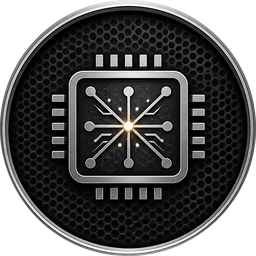
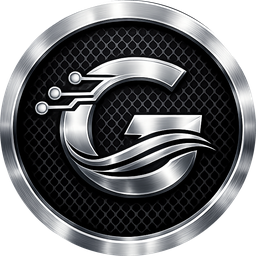
Photos becomes Media (videos flow through) + the G-monogram Gibbs badge
The Photos section is now Media everywhere it's named (nav tab, More
row, "+" tile, target sheet) and actually takes video: the picker
accepts image + video files, and the upload endpoint whitelists
video/mp4, quicktime, webm, m4v (plus iPhone HEIC/HEIF stills) with a
100MB video cap alongside the 25MB cap for everything else. Playback
already worked — CompanyCam video references and uploads share the
same tile + fullscreen player.

Gibbs wears the new G-monogram badge (circuit nodes + airflow swoosh)
in every launcher spot via the overwritten badge asset.

diff --git a/client/src/pages/mobile/mobile-shell.tsx b/client/src/pages/mobile/mobile-shell.tsx
@@ -39,7 +39,7 @@ interface MobileShellProps {
 const navTabs = [
   { path: "/mobile", label: "Agenda", icon: ClipboardList },
   { path: "/mobile/job", label: "Job", icon: Wrench },
-  { path: "/mobile/photos", label: "Photos", icon: Camera },
+  { path: "/mobile/photos", label: "Media", icon: Camera },
   { path: "/mobile/time", label: "Time", icon: Clock },
 ];
 
@@ -290,7 +290,7 @@ export default function MobileShell({ children, customNav }: MobileShellProps) {
           <p className="mb-2 text-xs font-semibold uppercase tracking-wide text-slate-400">Create</p>
           <div className="grid grid-cols-4 gap-3">
             <SheetTile icon={CheckSquare} img={createTask} label="New Task" onClick={() => go("/mobile/tasks/new")} testid="create-new-task" />
-            <SheetTile icon={Camera} img={createPhoto} label="Add Photo" onClick={() => { setCreateOpen(false); setPhotoTargetOpen(true); }} testid="create-add-photo" />
+            <SheetTile icon={Camera} img={createPhoto} label="Add Media" onClick={() => { setCreateOpen(false); setPhotoTargetOpen(true); }} testid="create-add-photo" />
             {isSupervisor && (
               <>
                 <SheetTile icon={UserRoundPlus} img={createCustomer} label="New Customer" onClick={() => go("/mobile/customers/new")} testid="create-new-customer" />
@@ -309,8 +309,8 @@ export default function MobileShell({ children, customNav }: MobileShellProps) {
 
       {/* Add Photo — pick the target first: a job today (role-aware) or a
           customer. Techs must be ON SITE at their job to add photos. */}
-      <DraggableSheet open={photoTargetOpen} onOpenChange={setPhotoTargetOpen} title="Add photo to…" testid="sheet-photo-target">
-        <p className="mb-2 text-xs font-semibold uppercase tracking-wide text-slate-400">Add photo to…</p>
+      <DraggableSheet open={photoTargetOpen} onOpenChange={setPhotoTargetOpen} title="Add media to…" testid="sheet-photo-target">
+        <p className="mb-2 text-xs font-semibold uppercase tracking-wide text-slate-400">Add media to…</p>
         {photoTargetsLoading || !photoTargets ? (
           <div className="flex items-center justify-center py-8 text-slate-400">
             <Loader2 className="h-5 w-5 animate-spin" />
@@ -346,7 +346,7 @@ export default function MobileShell({ children, customNav }: MobileShellProps) {
               <div className="rounded-[4px] border border-amber-300 bg-amber-50 px-4 py-4 text-center" data-testid="photo-target-blocked">
                 <p className="text-sm font-semibold text-amber-900">You're not on site at a job</p>
                 <p className="mt-1 text-xs text-amber-800">
-                  Photos attach to the job you're working. Open your job and tap On Site first — then come back here.
+                  Photos and videos attach to the job you're working. Open your job and tap On Site first — then come back here.
                 </p>
               </div>
             ) : (

diff --git a/server/replit_integrations/object_storage/routes.ts b/server/replit_integrations/object_storage/routes.ts
@@ -2,9 +2,12 @@ import express, { type Express, type Request, type Response, type NextFunction }
 import { ObjectStorageService, ObjectNotFoundError } from "./objectStorage";
 import { requireCrmAuth } from "../../crm-auth";
 
-const MAX_FILE_SIZE = 25 * 1024 * 1024; // 25MB max
+const MAX_FILE_SIZE = 25 * 1024 * 1024; // 25MB max (non-video)
+const MAX_VIDEO_SIZE = 100 * 1024 * 1024; // phone clips run bigger
 const ALLOWED_MIME_TYPES = [
   'image/jpeg', 'image/png', 'image/gif', 'image/webp',
+  'image/heic', 'image/heif',
+  'video/mp4', 'video/quicktime', 'video/webm', 'video/x-m4v',
   'application/pdf',
   'application/msword', 'application/vnd.openxmlformats-officedocument.wordprocessingml.document',
   'application/vnd.openxmlformats-officedocument.spreadsheetml.sheet'
@@ -52,10 +55,11 @@ export function registerObjectStorageRoutes(app: Express): void {
         });
       }
 
-      // Validate file size
-      if (size && size > MAX_FILE_SIZE) {
+      // Validate file size — videos get more headroom than documents/photos
+      const sizeCap = String(contentType || "").startsWith("video/") ? MAX_VIDEO_SIZE : MAX_FILE_SIZE;
+      if (size && size > sizeCap) {
         return res.status(400).json({
-          error: `File size exceeds maximum allowed (${MAX_FILE_SIZE / 1024 / 1024}MB)`,
+          error: `File size exceeds maximum allowed (${sizeCap / 1024 / 1024}MB)`,
         });
       }
 
@@ -91,7 +95,7 @@ export function registerObjectStorageRoutes(app: Express): void {
    */
   app.put(
     "/api/uploads/local/:id",
-    express.raw({ type: () => true, limit: MAX_FILE_SIZE }),
+    express.raw({ type: () => true, limit: MAX_VIDEO_SIZE }),
     async (req: Request, res: Response) => {
       try {
         if (!objectStorageService.isLocal()) {

diff --git a/client/src/pages/mobile/mobile-photos.tsx b/client/src/pages/mobile/mobile-photos.tsx
@@ -439,7 +439,7 @@ export default function MobilePhotos() {
         });
       }
       queryClient.invalidateQueries({ queryKey: ["/api/crm/customers", customerId, "files"] });
-      toast({ title: `${list.length} photo${list.length > 1 ? "s" : ""} uploaded` });
+      toast({ title: `${list.length} file${list.length > 1 ? "s" : ""} uploaded` });
     } catch (e) {
       console.error("Photo upload error:", e);
       toast({ title: "Upload failed", variant: "destructive" });
@@ -580,7 +580,7 @@ export default function MobilePhotos() {
             <input
               ref={fileInputRef}
               type="file"
-              accept="image/*"
+              accept="image/*,video/*"
               multiple
               className="hidden"
               onChange={(e) => handleUpload(e.target.files)}
@@ -689,7 +689,7 @@ export default function MobilePhotos() {
           ) : photos.length === 0 ? (
             <div className="flex flex-col items-center gap-2 py-10 text-slate-300">
               <ImageIcon className="h-10 w-10" />
-              <p className="text-sm text-slate-400">No photos yet for {activeCustomer?.name || "this customer"}.</p>
+              <p className="text-sm text-slate-400">No photos or videos yet for {activeCustomer?.name || "this customer"}.</p>
             </div>
           ) : (
             <div className="photo-grid-noselect grid grid-cols-3 gap-2" data-testid="photo-grid">

diff --git a/client/src/pages/mobile/mobile-more.tsx b/client/src/pages/mobile/mobile-more.tsx
@@ -58,7 +58,7 @@ export default function MobileMore() {
       title: "Work",
       items: [
         { label: "My Jobs", sub: "Today, upcoming, and history", onTap: (n) => n("/mobile/job"), testid: "more-jobs", badge: todayJobs > 0 ? `${todayJobs} today` : null },
-        { label: "Photos", sub: "Job-site shots and required photos", onTap: (n) => n("/mobile/photos"), testid: "more-photos", badge: needPhotos > 0 ? `${needPhotos} need photos` : null },
+        { label: "Media", sub: "Job-site photos and videos", onTap: (n) => n("/mobile/photos"), testid: "more-photos", badge: needPhotos > 0 ? `${needPhotos} need photos` : null },
         { label: "My Tasks", sub: "Your personal to-do list from the CRM", onTap: (n) => n("/mobile/tasks"), testid: "more-tasks" },
         { label: "Time & Timesheet", sub: "Clock in and review your hours", onTap: (n) => n("/mobile/time"), testid: "more-time" },
         { label: "Agenda", sub: "Your day at a glance", onTap: (n) => n("/mobile"), testid: "more-agenda" },
